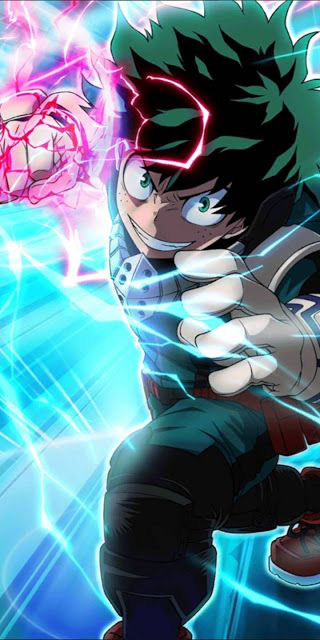
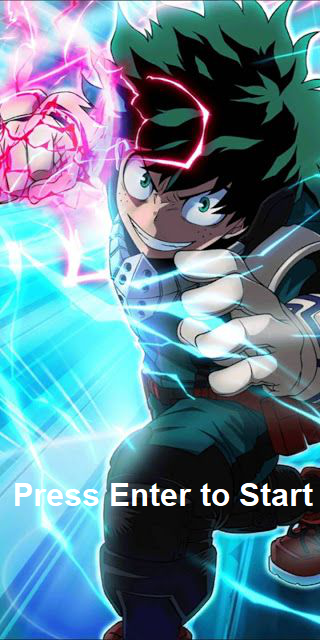
Versão Game 1.3 / Feita a adição da aranha, adição do livro e do Midoriya, Feito o efeito de movimento dos objetos

diff --git a/game.py b/game.py
@@ -1,36 +1,56 @@
 import pygame
-from obj import Obj
-from menu import Menu
+from obj import Obj, Midoriya
+import random
 
-class Main:
+class Game:
 
-    def __init__(self, sizex, sizey, title):
+    def __init__(self):
 
-        self.window = pygame.display.set_mode([sizex, sizey])
-        self.title = pygame.display.set_caption(title)
+        self.bg = Obj("assets/telafundo.png", 0, 0)
+        self.bg2 = Obj("assets/telafundo.png", 0, -640)
 
-        self.menu = Menu()
+        self.spider = Obj("assets/spider1.png", random.randrange(0, 300), -50)
+        self.livro1 = Obj("assets/livro1.png", random.randrange(0, 300), -50)
+        self.midoriya =Midoriya("assets/personagem.png", 150, 500)
 
-        self.loop = True
-
-    def draw(self):
-        if self.menu.change_scene == False:
-            self.menu.draw(self.window)
-            
-    def events(self):
-        for events in pygame.event.get():
-            if events.type == pygame.QUIT:
-                self.loop = False
-
-            self.menu.events(events)    
+        self.change_scene = False
+    
+    def draw(self, window):
+        self.bg.drawing(window)
+        self.bg2.drawing(window)
+        self.spider.drawing(window)
+        self.livro1.drawing(window)
+        self.midoriya.drawing(window)
 
     def update(self):
-        while self.loop:
-            self.draw()
-            self.events()
-            pygame.display.update()
+        self.move_bg()
+        self.spider.anim()
+        self.midoriya.anim()
+        self.move_spiders()
+        self.move_livro1()
+    
+    def move_bg(self):
+        self.bg.sprite.rect[1] += 4
+        self.bg2.sprite.rect[1] += 4
 
+        if self.bg.sprite.rect[1] >= 640:
+            self.bg.sprite.rect[1] = 0
 
-game = Main(320, 640, "My Hero Academia")
-game.update()
+        if self.bg2.sprite.rect[1] >= 0:
+            self.bg2.sprite.rect[1] = -640
+
+    def move_spiders(self):
+        self.spider.sprite.rect[1] += 10
+
+        if self.spider.sprite.rect[1] >= 700:
+            self.spider.sprite.kill()
+            self.spider = Obj("assets/spider1.png", random.randrange(0, 300), -50)
+
+    def move_livro1(self):
+        self.livro1.sprite.rect[1] += 8
+
+        if self.livro1.sprite.rect[1] >= 700:
+            self.livro1.sprite.kill()
+            self.livro1 = Obj("assets/livro1.png", random.randrange(0, 300), -50)
+
 

diff --git a/obj.py b/obj.py
@@ -13,7 +13,43 @@ class Obj:
         self.sprite.rect[0] = x
         self.sprite.rect[1] = y
 
-
+        self.frame = 1
+        self.tick = 0
 
     def drawing(self, window):
         self.group.draw(window)
+
+    def anim(self):
+        self.tick += 1
+        if self.tick >= 8:
+            self.tick = 0
+            self.frame += 1
+
+        if self.frame > 4:
+            self.frame = 1
+
+        self.sprite.image = pygame.image.load("assets/spider" + str(self.frame) + ".png")
+
+
+class Midoriya(Obj):
+
+    def __init__(self, image, x, y):
+        super().__init__(image, x, y)
+
+    def move_midoriya(self, event):
+        if event.type == pygame.MOUSEMOTION:
+            self.sprite.rect[0] = pygame.mouse.get()[0]
+            self.sprite.rect[1] = pygame.mouse.get_pos()[1]
+
+    def anim(self):
+        self.tick += 1
+        if self.tick >= 8:
+            self.tick = 0
+            self.frame += 1
+
+        if self.frame > 4:
+            self.frame = 1
+
+        self.sprite.image = pygame.image.load("assets/personagem.png")
+
+

diff --git a/main.py b/main.py
@@ -1,0 +1,43 @@
+import pygame
+from obj import Obj
+from menu import Menu
+from game import Game
+
+class Main:
+
+    def __init__(self, sizex, sizey, title):
+
+        self.window = pygame.display.set_mode([sizex, sizey])
+        self.title = pygame.display.set_caption(title)
+
+        self.menu = Menu()
+        self.game = Game()
+
+        self.loop = True
+        self.fps = pygame.time.Clock()
+
+    def draw(self):
+        if not self.menu.change_scene:
+            self.menu.draw(self.window)
+        elif not self.game.change_scene:
+            self.game.draw(self.window)
+            self.game.update()
+            
+    def events(self):
+        for events in pygame.event.get():
+            if events.type == pygame.QUIT:
+                self.loop = False
+
+            self.menu.events(events)    
+
+    def update(self):
+        while self.loop:
+            self.fps.tick(30)
+            self.draw()
+            self.events()
+            pygame.display.update()
+
+
+game = Main(320, 640, "My Hero Academia")
+game.update()
+

diff --git a/jogo.py b/jogo.py
@@ -1,0 +1,17 @@
+import pygame
+from obj import Obj
+
+
+class Game:
+
+    def __init__(self):
+
+        self.bg = Obj("assets/bg.png", 0, 0)
+
+        self.change_scene = False
+    
+    def draw(self, window):
+        self.bg.drawing(window)
+
+    def update(self):
+        pass

diff --git a/menu.py b/menu.py
@@ -15,4 +15,4 @@ class Menu:
         if event.type == pygame.KEYDOWN:
             if event.key == pygame.K_RETURN:
                 self.change_scene = True
-                print(self.change_scene)
+
